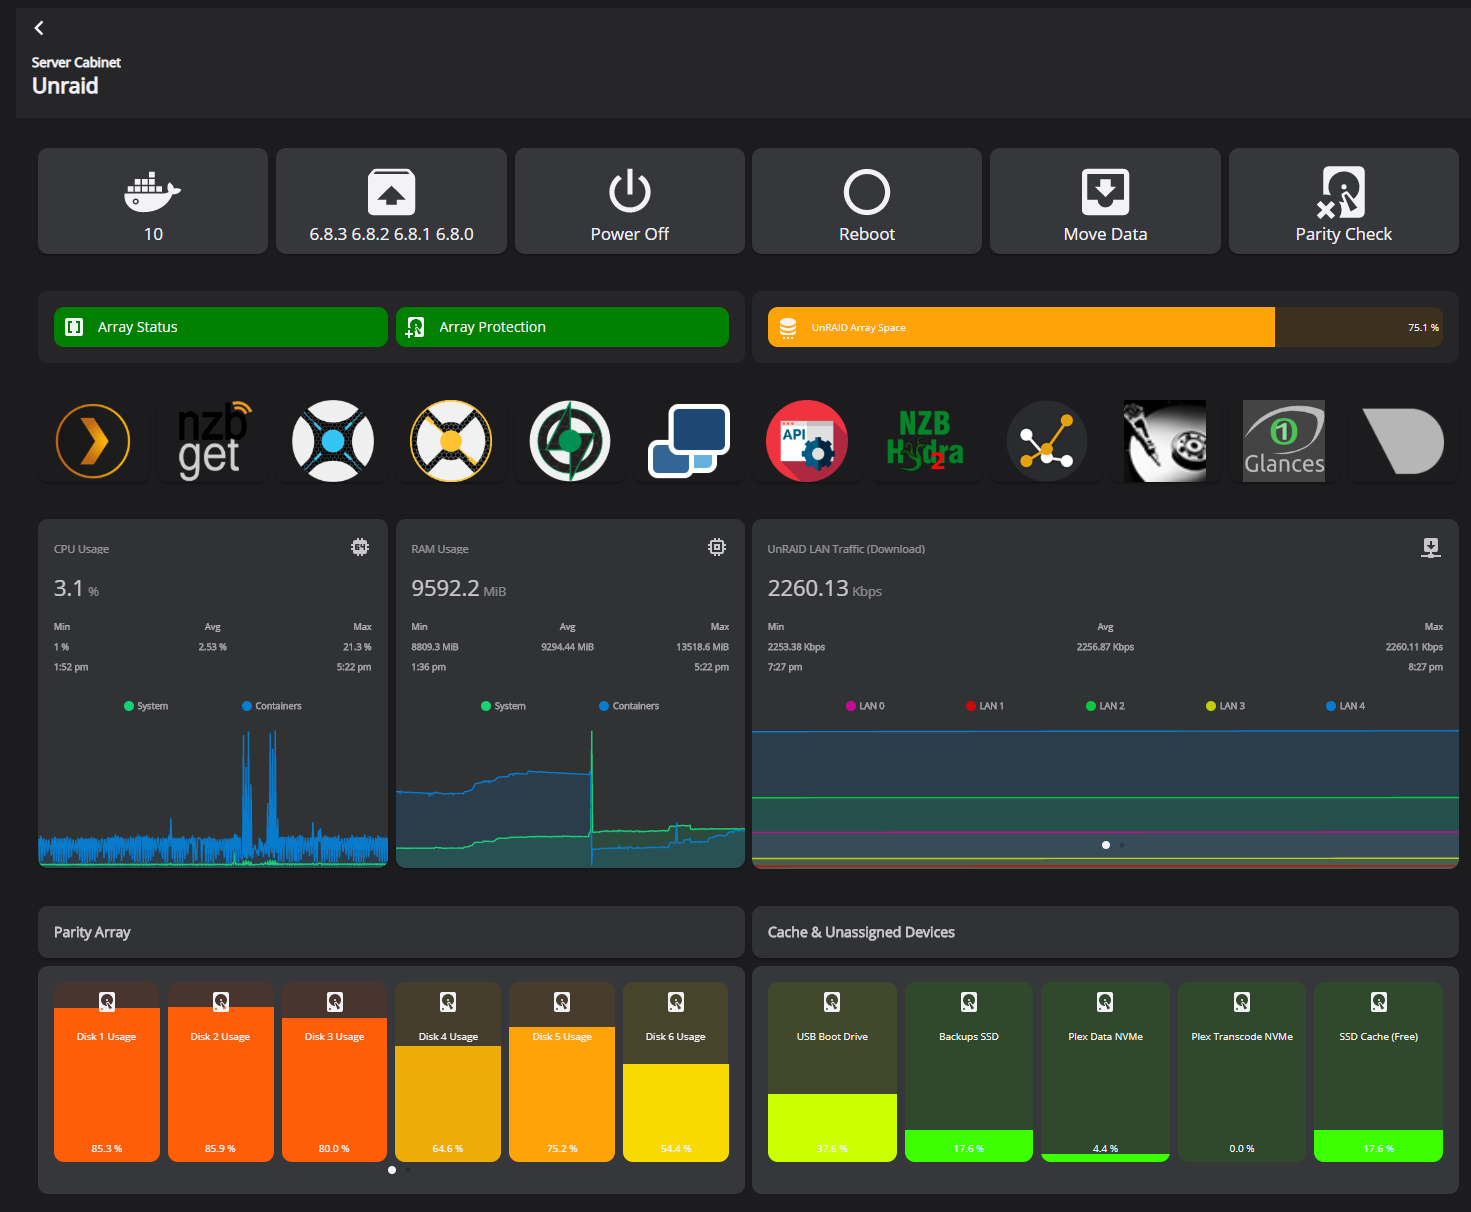
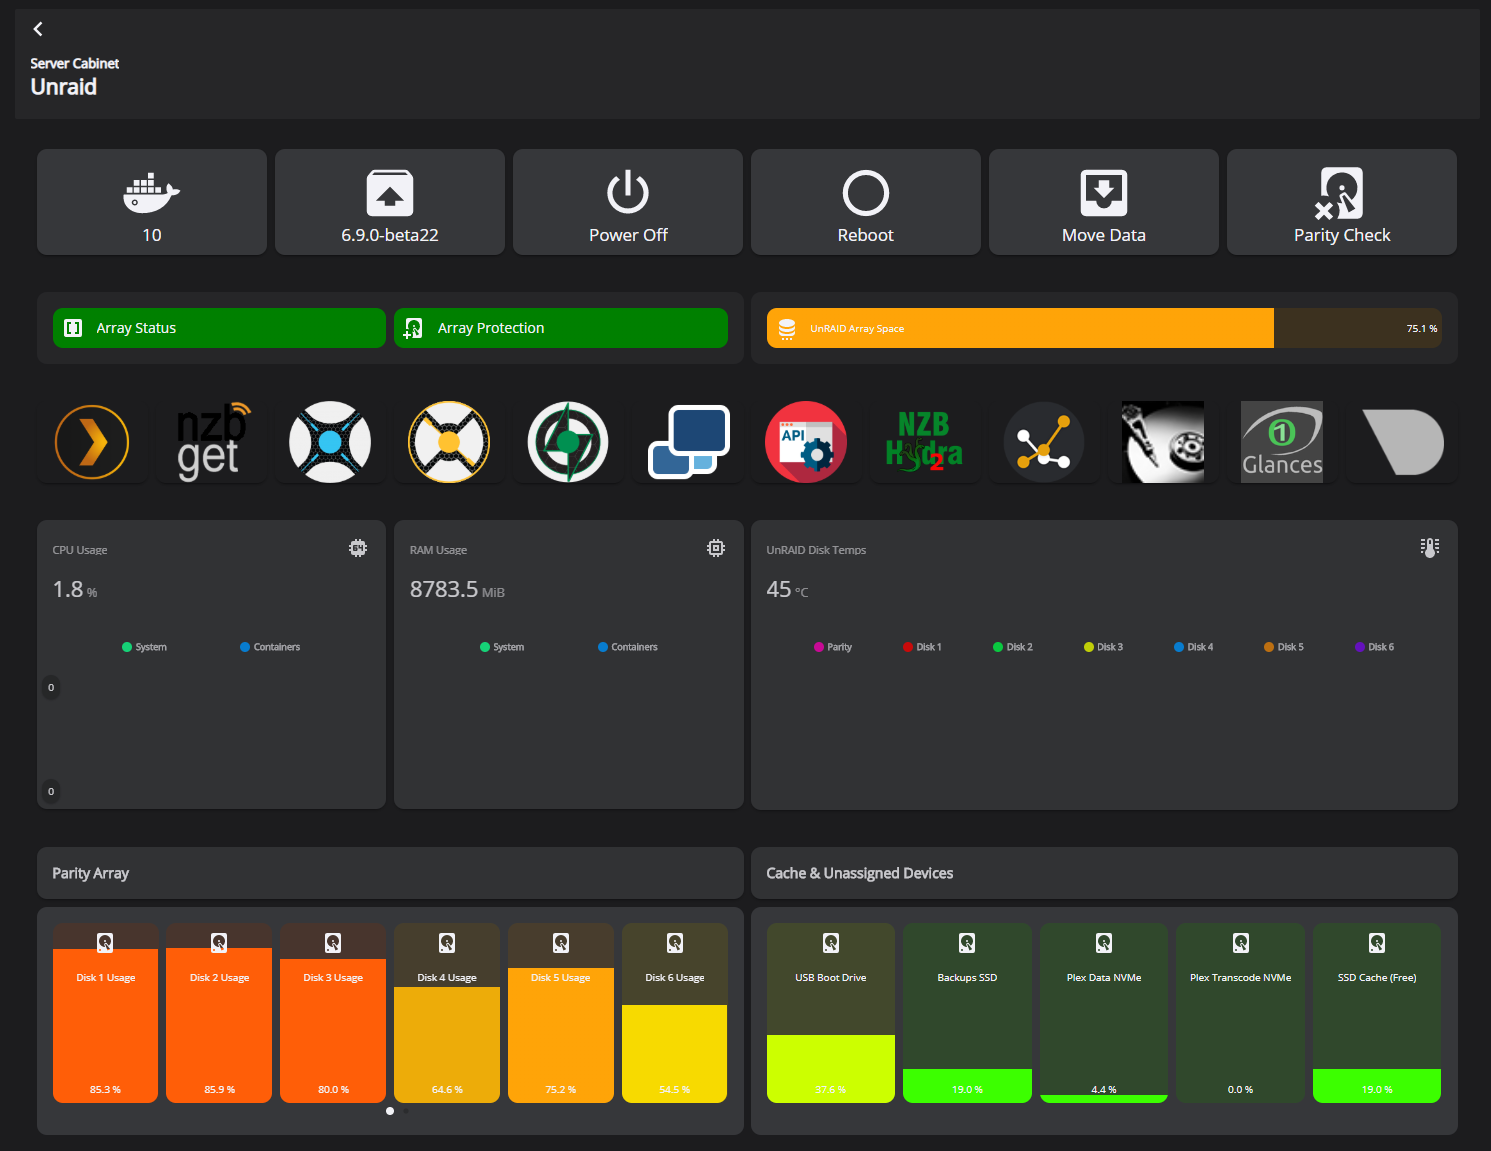
Unraid 0.4
### Version 0.4
  - Added disk temperatures (SNMP)
  - Removed Download/Upload LAN Traffic (coming soon in new Network View)
  - Removed Swipe card

Also huge restructure in my own repo. Added new markdown with updated links.

diff --git a/more_page/home_assistant_view/ha_monitor.md b/more_page/home_assistant_view/ha_monitor.md
@@ -3,7 +3,29 @@
 
 ![ha-monitor](https://github.com/noodlemctwoodle/homeassistant/blob/master/.github/wiki/images/dwains-theme/addons/ha-monitor/desktop_1.png)
 
-## Version 0.1 - Initial release
+## Dwains Theme Addon:
+
+Dwains-Theme `Home Assistant Monitoring` Addon can be found [here](https://github.com/noodlemctwoodle/homeassistant/blob/master/dwains-theme/addons/more_page/ha_monitoring.yaml)
+     
+Configuration instructions can be found [here](https://github.com/noodlemctwoodle/homeassistant/blob/master/.github/wiki/guides/ha-core/HomeAssistant_Monitoting.md)
+
+### Dwains Theme Configuration:
+
+```YAML
+    addons:
+      - name: Home Assistant
+        icon: mdi:home-assistant
+        path: 'dwains-theme/addons/more_page/ha_monitoring.yaml'
+```
+
+### Credits
+ - [SilvrrGIT](https://github.com/SilvrrGIT/HomeAssistant) Excellent post on the community [forum](https://community.home-assistant.io/t/get-notified-of-available-hassio-addon-updates/176626) outlining how to create rest senosr to start/restart Home Assistant Core Addons, Create the switches used in my HKI System view and the post also describes how write automations for addon update available notifications.
+ - [Avi](https://github.com/abeksis/My-HomeAssistant-Config) Thanks for creating the awesome graphics used in v0.1 containers swipe-card and also providing code snips. 
+ - [CentralCommand](https://community.home-assistant.io/t/update-notifications-core-hacs-supervisor-and-addons/182295)
+
+## Release Notes:
+
+### Version 0.1 - Initial release
 
  - Reload, snapshot, restart, reboot buttons
  - System temperatures
@@ -20,20 +42,20 @@
     - Supervisor update notifications
     - Add-on update notifications
 
-## Version 0.2 - Code Cleanup
+### Version 0.2 - Code Cleanup
 
  - Removed CSS heights and fixed them with Graph `height:`
  - Added more documentation for card
  - [AVI](https://github.com/abeksis/My-HomeAssistant-Config) converted all the HKI container images to Dwians-Theme variants. 
 
-## Version 0.3
+### Version 0.3
  - Added update sensors
     - package + audio, dns, cli and core
  - Added configuration guide for Configuration [Checker](https://github.com/noodlemctwoodle/homeassistant/blob/master/.github/wiki/guides/ha-core/HomeAssistant_Monitoting.md#install-check-home-assistant-configuration)
  - Added configuration guide for HTML5 [notifications](https://github.com/noodlemctwoodle/homeassistant/blob/master/.github/wiki/guides/ha-core/HomeAssistant_Monitoting.md#setting-up-the-html5-notify-platform)
  - [AVI](https://github.com/abeksis/My-HomeAssistant-Config) added template.dwains.psd for you to make your own container images
 
-## Version 0.4
+### Version 0.4
  - Removed picture entity card used for version and containers due to positioning issue on mobile devices
    - Added Button-Card for `containers` and `version`
  - Removed Swipe card for Home Assistant addons due issue with light theme
@@ -44,25 +66,8 @@
 ## Version 0.5
  - Updated `title` to `name` for bar-card thanks @papy_329700
 
-### Home Assistant Core Addon Support
 
-Dwains-Theme Addon can be found [here](https://github.com/noodlemctwoodle/homeassistant/blob/master/dwains-theme/addons/more_page/ha_view/ha_monitoring.yaml)
-     
-Configuration instructions can be found [here](https://github.com/noodlemctwoodle/homeassistant/blob/master/.github/wiki/guides/ha-core/HomeAssistant_Monitoting.md)
-
-```YAML
-    addons:
-      - name: Home Assistant
-        icon: mdi:home-assistant
-        path: 'dwains-theme/addons/more_page/ha_view/ha_monitoring.yaml'
-```
-
- #### Credits
- - [SilvrrGIT](https://github.com/SilvrrGIT/HomeAssistant) Excellent post on the community [forum](https://community.home-assistant.io/t/get-notified-of-available-hassio-addon-updates/176626) outlining how to create rest senosr to start/restart Home Assistant Core Addons, Create the switches used in my HKI System view and the post also describes how write automations for addon update available notifications.
- - [Avi](https://github.com/abeksis/My-HomeAssistant-Config) Thanks for creating the awesome graphics used in v0.1 containers swipe-card and also providing code snips. 
- - [CentralCommand](https://community.home-assistant.io/t/update-notifications-core-hacs-supervisor-and-addons/182295)
- 
- ### Donations
+### Donations
 
 If you like my work please feel free to buy me a coffee
 

diff --git a/more_page/unraid_view/unraid.md b/more_page/unraid_view/unraid.md
@@ -1,7 +1,20 @@
 # UnRAID Monitoring Addon for Dwains-Theme
-#### Version 0.3
+#### Version 0.4
 
 ![unraid-monitor](https://github.com/noodlemctwoodle/homeassistant/blob/master/.github/wiki/images/dwains-theme/addons/unraid/desktop_1.png)
+
+## Dwains Theme Addon:
+
+Dwains-Theme `UnRAID` add-on can be found [here](https://github.com/noodlemctwoodle/homeassistant/blob/master/dwains-theme/addons/more_page/unraid_monitoring.yaml)
+
+### Dwains Theme Configuration:
+
+ ```yaml
+    addons:
+    - name: Unraid Monitoring
+        icon: mdi:server-network
+        path: 'dwains-theme/addons/more_page/unraid_monitoring.yaml'
+```
 
 ### UnRAID Data Monitoring Feeds
 
@@ -12,7 +25,18 @@
 | Total arrayDiskSpace  | Disk Space      | View CPU usage                 |
 | Start/Stop Containers | CPU Load        | View RAM usage                 |
 
-## Version 0.1
+
+ ### Credits
+ - [Dwain](https://github.com/dwainscheeren/lovelace-dwains-theme) Thanks for your assistance and ideas on this :)
+ - [Stephan](https://github.com/Stephan296) Thanks for creating the version sensor curl request and exploring the correct configuration for the UnRAID-API.
+ - [ElectricBrainUK](https://github.com/ElectricBrainUK/UnraidAPI) Thanks for creating this API for us to use and making this dashboard possible
+ - [123](https://community.home-assistant.io/u/123/summary) Thanks for solving the problem with parenthesis
+ - [Avi](https://github.com/abeksis/My-HomeAssistant-Config) Thanks for creating the awesome graphics used in v0.1 containers swipe-card and also providing code snips. 
+
+
+## Release Notes:
+
+### Version 0.1
  - Initial view works for both Mobile and Desktop (Responsive)
  - Glances container support
  - Glances Home Assistant Integration
@@ -21,7 +45,7 @@
  - UnRAID-API added
  - Added SNMP [config](https://github.com/noodlemctwoodle/homeassistant/blob/44ac457117f173fa1bf1e47ce832566b36ba5ddb/packages/ha-core/areas/cabinet/devices/unraid/unraid_monitoring.yaml#L34)
 
-## Version 0.2
+### Version 0.2
  - Updated `title` to `name` for bar-card thanks @papy_329700
  - fixed `custom:dwains-flexbox-card` line spacing issue
  - Removed picture entity card used for version and containers due to positioning issue on mobile devices
@@ -31,9 +55,7 @@
  - Fixed spacing issues
  - Adjusted font sizes
 
- Dwains-Theme UnRAID add-on can be found [here](https://github.com/noodlemctwoodle/homeassistant/blob/master/dwains-theme/addons/more_page/unraid_addon/unraid_monitoring.yaml)
-
-## Version 0.3
+### Version 0.3
  - Added new UnRAID API Beta content
    - Power Off Server
    - Reboot Server
@@ -47,21 +69,10 @@
  - Works with both light and dark theme
  - Works on Mobile
  
-Known bug with version. Will look at this in due course. 
-
- ```yaml
-    addons:
-    - name: Unraid Monitoring
-        icon: mdi:server-network
-        path: 'dwains-theme/addons/more_page/unraid_addon/unraid_monitoring.yaml'
-```
-
- #### Credits
- - [Dwain](https://github.com/dwainscheeren/lovelace-dwains-theme) Thanks for your assistance and ideas on this :)
- - [Stephan](https://github.com/Stephan296) Thanks for creating the version sensor curl request and exploring the correct configuration for the UnRAID-API.
- - [ElectricBrainUK](https://github.com/ElectricBrainUK/UnraidAPI) Thanks for creating this API for us to use and making this dashboard possible
- - [123](https://community.home-assistant.io/u/123/summary) Thanks for solving the problem with parenthesis
- - [Avi](https://github.com/abeksis/My-HomeAssistant-Config) Thanks for creating the awesome graphics used in v0.1 containers swipe-card and also providing code snips. 
+### Version 0.4
+  - Added disk temperatures (SNMP)
+  - Removed Download/Upload LAN Traffic (coming soon in new Network View)
+  - Removed Swipe card
 
 
 ### Donations

diff --git a/more_page/pi_hole/pihole.md b/more_page/pi_hole/pihole.md
@@ -4,13 +4,11 @@
 
 ![pihole-monitor](https://github.com/noodlemctwoodle/homeassistant/blob/master/.github/wiki/images/dwains-theme/addons/pi_hole/desktop_1.png)
 
-## Version 0.1
- - Initial view works for both Mobile and Desktop (Responsive)
- - Works with both light and dark themes
- - Uses Home Assistant Pi-Hole Integration
+## Dwains Theme Addon:
 
+Dwains Theme `Pi-Hole` add-on can be found [here](https://github.com/noodlemctwoodle/homeassistant/blob/master/dwains-theme/addons/more_page/adblocker.yaml)
 
-### Installation:
+### Dwains Theme Configuration:
 
  ```yaml
     addons:
@@ -18,6 +16,13 @@
         icon: mdi:pi-hole
         path: 'dwains-theme/addons/more_page/adblocker.yaml'
 ```
+
+## Release Notes:
+
+### Version 0.1
+ - Initial view works for both Mobile and Desktop (Responsive)
+ - Works with both light and dark themes
+ - Uses Home Assistant Pi-Hole Integration
 
 
 ### Donations
